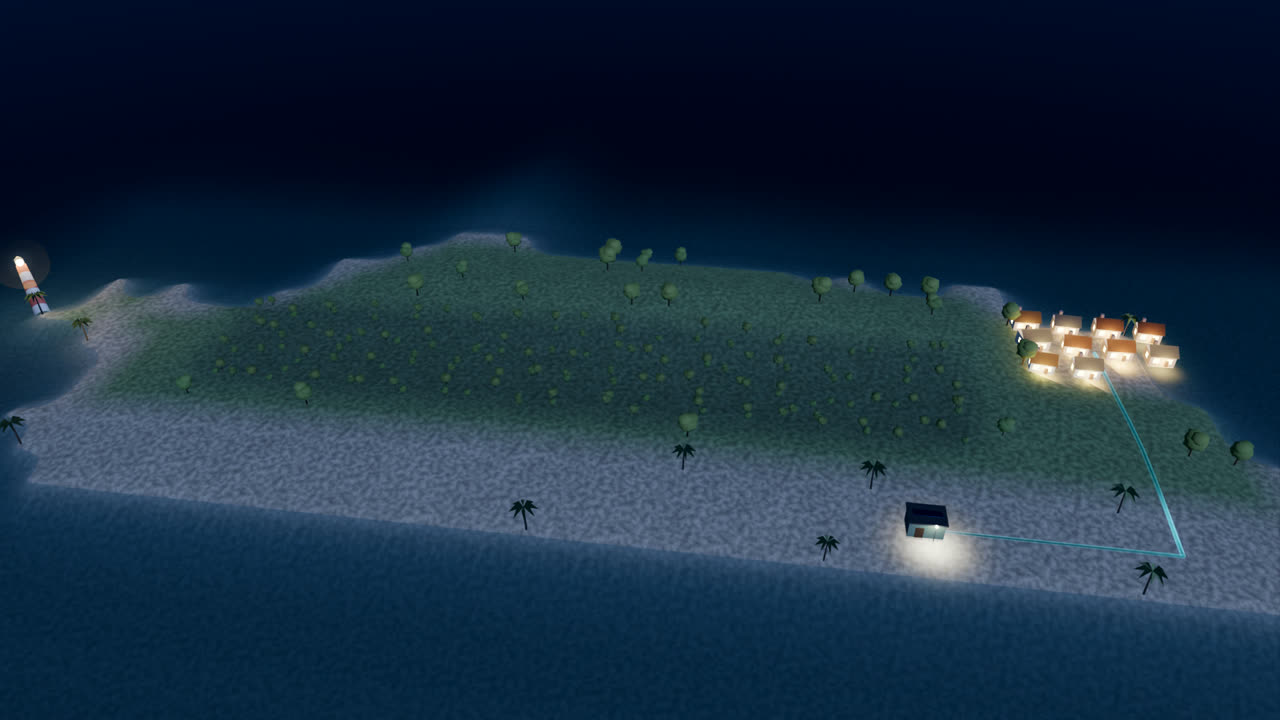
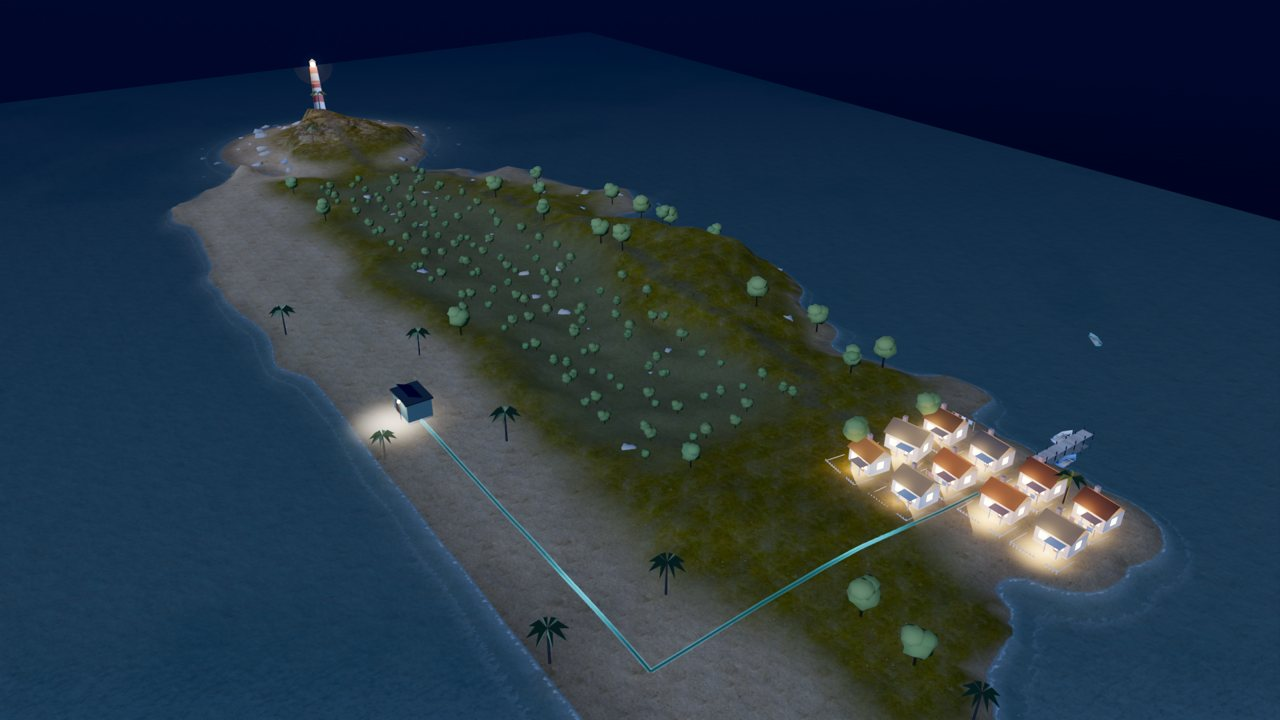
README and site for 1.18: the shaped island, chapter 1 at night, chapter 2 in 3D, the finale's new opening; shots from the release code (r8)
Claude-Session: https://claude.ai/code/session_01LLtMdbo6QrqLGE18L1gpTt

diff --git a/site/index.html b/site/index.html
@@ -56,7 +56,7 @@
     </div>
     <figure class="hero-shot">
       <a href="assets/shots/street-3d.jpg" class="zoom"><img src="assets/shots/street-3d.jpg" alt="The finale in the new 3D look: a town at street level at dusk, roofs, lit windows and street lamps" width="1600" height="900"></a>
-      <figcaption>New in 1.17: the game opens on a dark bay, and chapter 1 is in 3D. The lights follow the engine's load flow.</figcaption>
+      <figcaption>New in 1.18: the island has a shape, and chapter 2's map jobs are in 3D. The lights follow the engine's load flow.</figcaption>
     </figure>
   </div>
 </section>
@@ -122,10 +122,11 @@
       <li><a href="wiki/chapter-8.html"><b>8</b><span>Distribution</span><em>Feeder voltage drop, SAIFI and SAIDI, fuse saving, rooftop solar</em></a></li>
       <li><a href="wiki/chapter-9.html"><b>F</b><span>Keep the Lights On</span><em>The whole province for three days</em></a></li>
     </ul>
-    <p class="fine">Chapters 1 and 3 and the finale are in the new look. The prologue, chapters 2 and 4 to 8 and the Career still use the classic 2D look:</p>
+    <p class="fine">Chapters 1 and 3, chapter 2's map jobs and the finale are in the new look. The prologue, the benches and chapters 4 to 8 still use the classic 2D look:</p>
     <div class="gallery" id="gallery">
-      <figure><a href="assets/shots/look-title.jpg"><img src="assets/shots/look-title.jpg" alt="The title screen: the island at dusk with the lighthouse and a dark hamlet waiting for power" width="1280" height="720" loading="lazy"></a><figcaption><b>The title, new look.</b> The bay before the first lamp.</figcaption></figure>
-      <figure><a href="assets/shots/look-ch1.jpg"><img src="assets/shots/look-ch1.jpg" alt="Chapter 1 in the new look: one cable from the battery hut, and the hamlet's windows glow by the voltage they get" width="1280" height="720" loading="lazy"></a><figcaption><b>Chapter 1, new look.</b> The windows glow by the voltage they get.</figcaption></figure>
+      <figure><a href="assets/shots/look-title.jpg"><img src="assets/shots/look-title.jpg" alt="The title screen: the island at dusk, a headland under the lighthouse, a jetty and a dark hamlet waiting for power" width="1280" height="720" loading="lazy"></a><figcaption><b>The title, new look.</b> The bay before the first lamp.</figcaption></figure>
+      <figure><a href="assets/shots/look-ch2.jpg"><img src="assets/shots/look-ch2.jpg" alt="Chapter 2 in the new look: The River Line on the Mainland, the river, farms and the town's yard" width="1280" height="720" loading="lazy"></a><figcaption><b>Chapter 2, new look.</b> The River Line on the Mainland.</figcaption></figure>
+      <figure><a href="assets/shots/look-ch1.jpg"><img src="assets/shots/look-ch1.jpg" alt="Chapter 1 at night in the new look: one cable from the battery hut, and the hamlet's windows glow by the voltage they get" width="1280" height="720" loading="lazy"></a><figcaption><b>Chapter 1, new look.</b> The windows glow by the voltage they get.</figcaption></figure>
       <figure><a href="assets/shots/look-mill.jpg"><img src="assets/shots/look-mill.jpg" alt="Chapter 3: the mill works at 18:30, sheds with lit windows, two chimneys and a rail siding" width="1280" height="720" loading="lazy"></a><figcaption><b>The mill</b> · chapter 3</figcaption></figure>
       <figure><a href="assets/shots/look-ch3.jpg"><img src="assets/shots/look-ch3.jpg" alt="Chapter 3 in the new look: the mill town lit at 18:30 with the phasor card; the bank has brought the power factor to 0.95" width="1600" height="900" loading="lazy"></a><figcaption><b>Chapter 3, new look.</b> A capacitor bank pulls the mill's current back toward the voltage.</figcaption></figure>
       <figure><a href="assets/shots/phasors.jpg"><img src="assets/shots/phasors.jpg" alt="Chapter 4: generator phasors drawn from the player's answer" width="1600" height="900" loading="lazy"></a><figcaption><b>Generator phasors</b> · chapter 4</figcaption></figure>

diff --git a/README.md b/README.md
@@ -1,16 +1,31 @@
 # ⚡ GRID — build a power grid, keep the lights on
 
-**[Site](https://grid.blackmetal.tech)** · **[Wiki](https://grid.blackmetal.tech/wiki/)** · **[Releases](https://github.com/blackmetaltech/grid/releases)** · **[Changelog](CHANGELOG.md)** · **[Critique](docs/CRITIQUE-1.17.md)** · **[Issues](https://github.com/blackmetaltech/grid/issues)**
+**[Site](https://grid.blackmetal.tech)** · **[Wiki](https://grid.blackmetal.tech/wiki/)** · **[Releases](https://github.com/blackmetaltech/grid/releases)** · **[Changelog](CHANGELOG.md)** · **[Critique](docs/CRITIQUE-1.18.md)** · **[Issues](https://github.com/blackmetaltech/grid/issues)**
 
 **Build a power grid one job at a time. Then run the day and watch it hold, or fail.** Demand climbs at dusk. A storm opens a line. Towns go dark street by street, because the windows are lit by your own power flow.
 
 The game runs in **Godot 4.7**. Every rule runs in a **deterministic TypeScript engine**: an AC load flow, the swing equation, harmonics, relay curves. The same inputs always give the same day.
 
-> **Alpha, 1.17.** The whole campaign, eight chapters and a finale, is playable and has been played to a win at every chapter. **The title, chapter 1, chapter 3 and the finale are drawn in the new 3D look.** The prologue, the other chapters and the Career keep the classic 2D look for now; their job cards say "Classic".
+> **Alpha, 1.18.** The whole campaign, eight chapters and a finale, is playable and has been played to a win at every chapter. **The title, chapter 1, chapter 2's map jobs, chapter 3 and the finale are drawn in the new 3D look.** The prologue, the benches and the other chapters keep the classic 2D look for now; their job cards say "Classic". The Career uses the glass panels of the new look.
 
 ![The finale in the new look: a town at street level at dusk](docs/readme/new115/street.jpg)
 
-### What's new in 1.17: the game opens on a dark bay, and chapter 1 is in 3D
+### What's new in 1.18: the island has a shape, and chapter 2 goes 3D
+
+| The title: dunes, a headland under the lighthouse, a jetty and homes with porches | Chapter 1 at night: the hut, the cable and the lit hamlet under the moon |
+|---|---|
+| ![title](docs/readme/new118/title.jpg) | ![chapter 1](docs/readme/new118/l01.jpg) |
+| **Chapter 2: The River Line on the Mainland, with farms and a bridge** | **The finale opens on the harbour and Saltmarsh Island, and starts in about 4 s** |
+| ![chapter 2](docs/readme/new118/l05.jpg) | ![finale](docs/readme/new118/finale.jpg) |
+
+- The island has relief, rocks, surf, paths, a jetty and boats. The water shows the land and the lamps.
+- Towns grow streets along their roads and rivers. The pale halo round towns is gone.
+- Chapter 2's map jobs, The River Line and Salt Wind, are in 3D. Wood and concrete poles, no lattice towers at 11 kV.
+- The finale loads in about 4 s (was 14 to 22 s). A banner says the report is coming.
+- The pad's Back button changes the speed. The frequency dial holds a trip's dip in red.
+- Four new sounds: a breaker closing, a town coming on, a trip and a blackout. They are made in code. No human has listened to them yet.
+
+### 1.17: the game opens on a dark bay, and chapter 1 is in 3D
 
 | The title: the island at dusk, the lighthouse, a hamlet waiting for power | Chapter 1: the first cable, and the hamlet lights up at the voltage it gets |
 |---|---|
@@ -152,4 +167,4 @@ core/                    cobanana-core (submodule): engine kit, Godot app shell,
 - The weekly board needs a cobanana-scores host. None is public yet, so it has only been tested against a local development server.
 - Not yet in the game: substation bus schemes, earth faults, multi-machine stability, a week of unit commitment.
 
-See [docs/CRITIQUE-1.17.md](docs/CRITIQUE-1.17.md) for the harsh version.
+See [docs/CRITIQUE-1.18.md](docs/CRITIQUE-1.18.md) for the harsh version.
